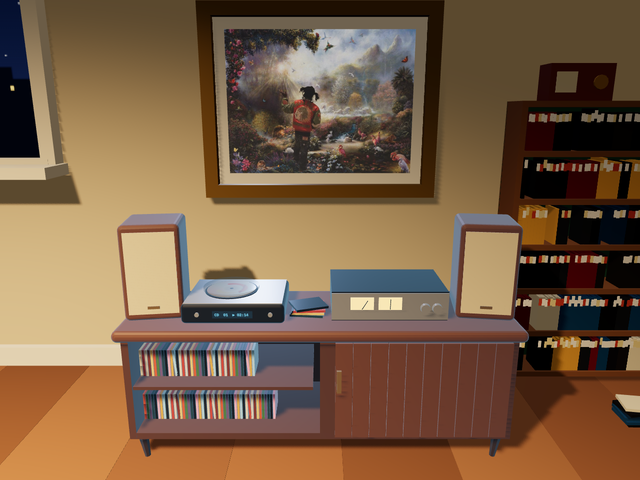
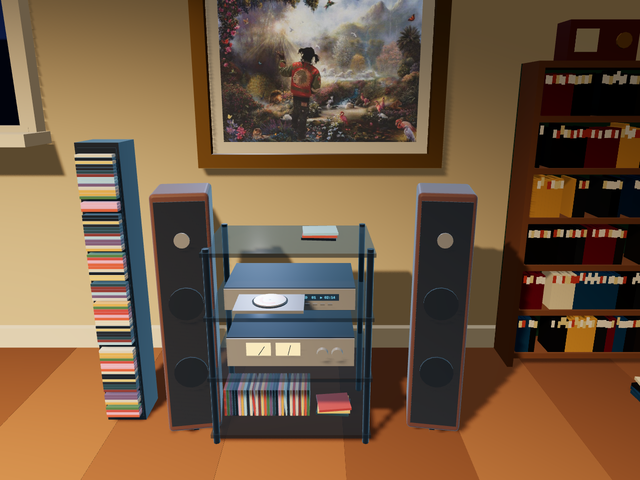
Hub : un vrai coin CD pour Music Discovery (rack en verre, lecteur à tiroir, tour à CD, colonnes), affiches Evil Dead et I Love Ugly entières à toutes les tailles, plus de texte « Touche Talya »
Claude-Session: https://claude.ai/code/session_019D9NeCzFApqhUD5yddUWtk

diff --git a/scene.js b/scene.js
@@ -12,10 +12,10 @@ import * as THREE from './vendor/three.min.js';   // three.js compacté (vendor/
    vue : [recul, hauteur de l'œil, hauteur du regard] */
 const PLACES = {
   ordi:       { pos: [-2.6, 0, -3.35], face: 0,            vue: [2.3, 1.55, 1.05] },
-  platine:    { pos: [1.9, 0, -3.5],   face: 0,            vue: [2.2, 1.5, .95] },
-  globe:      { pos: [-4.1, 0, -.7],   face: Math.PI / 2,  vue: [2.45, 1.62, 1.3] },
+  platine:    { pos: [1.9, 0, -3.5],   face: 0,            vue: [2.05, 1.38, .82] },
+  globe:      { pos: [-4.1, 0, -.7],   face: Math.PI / 2,  vue: [2.75, 1.64, 1.34] },
   talya:      { pos: [3.1, 0, 1.1],    face: -2.4,         vue: [2.4, 1.35, .35] },
-  quiz:       { pos: [4.5, 0, -1.6],   face: -Math.PI / 2, vue: [2.7, 1.55, 1.15] },
+  quiz:       { pos: [4.5, 0, -1.6],   face: -Math.PI / 2, vue: [3.0, 1.6, 1.24] },
   flechettes: { pos: [-4.92, 0, 1.9],  face: Math.PI / 2,  vue: [2.6, 1.6, 1.55] },
   carton:     { pos: [-1.6, 0, 2.3],   face: .5,           vue: [2.2, 1.45, .35] },
 };
@@ -119,8 +119,8 @@ export function demarrer({ toile, etapes, surEtape, reduit, decors = {}, surDeco
   }
   tableau('img/murs/chief-keef.jpg', 1.0, .749, 1.9, 1.54, -4.18, 0, { cadre: '#b08a3e', bord: .07, epais: .06, dore: true, marge: .06 });   // Chief Keef au jardin d'Éden, au-dessus de la chaîne CD
   tableau('img/murs/koi.jpg', .66, .66, -2.6, 2.06, -4.18, 0, { cadre: '#5a3820', bord: .05 });                                     // la carpe géante, au-dessus du bureau
-  tableau('img/murs/i-love-ugly.jpg', .8, .535, -4.99, 2.02, -.7, Math.PI / 2, { cadre: '#161514', bord: .045, lum: .55 });   // I Love Ugly (Chester Watson), au-dessus du globe
-  tableau('img/murs/evil-dead-2.jpg', .5, .775, 4.99, 1.86, -1.6, -Math.PI / 2, { cadre: '#b8282e', bord: .035, marge: .045, lum: .75 });   // Evil Dead 2, au-dessus du pupitre de quiz
+  tableau('img/murs/i-love-ugly.jpg', .8, .535, -4.99, 1.95, -.7, Math.PI / 2, { cadre: '#161514', bord: .045, lum: .55 });   // I Love Ugly (Chester Watson), au-dessus du globe
+  tableau('img/murs/evil-dead-2.jpg', .5, .775, 4.99, 1.76, -1.6, -Math.PI / 2, { cadre: '#b8282e', bord: .035, marge: .045, lum: .75 });   // Evil Dead 2, au-dessus du pupitre de quiz
 
   meubler(scene, { M, boite });
   tableau('img/murs/seta.jpg', .76, .76, 4.99, 2.2, 2.85, -Math.PI / 2, { cadre: '#b07a48', bord: .05 });   // Seta, au-dessus de la télé
@@ -792,53 +792,55 @@ const FORMES = {
 
   // Music Discovery : une chaîne CD de mélomane (lecteur à chargement par le dessus, ampli, enceintes), sur une enfilade en noyer
   platine(g, { M, boite }) {
-    const noyer = M('#6e4527', { roughness: .5, flatShading: false }), noyerF = M('#5a3820', { roughness: .6 }), laiton = M('#c9a25a', { metalness: .7, roughness: .3, flatShading: false });
-    const alu = M('#c9cbd0', { metalness: .6, roughness: .3, flatShading: false }), noir = M('#17161a', { roughness: .45 });
-    molle(g, 1.72, .05, .52, .02, noyer, 0, .6, 0);                                        // le plateau
-    boite(.83, .48, .46, noyerF, .415, .35, 0, g);                                       // le caisson (à droite, fermé par les lattes)
-    boite(.83, .48, .02, noyerF, -.415, .35, -.22, g); boite(.83, .03, .46, noyerF, -.415, .125, 0, g); boite(.03, .48, .46, noyerF, -.815, .35, 0, g);   // à gauche, la case ouverte
-    [[-.78, -.19], [.78, -.19], [-.78, .19], [.78, .19]].forEach(([x, z]) => { const p = cylindre(g, .024, .013, .12, 8, M('#3a2416'), x, .06, z); p.rotation.z = x < 0 ? .12 : -.12; });
-    for (let i = 0; i < 10; i++) boite(.072, .44, .02, noyer, .1 + i * .074, .35, .236, g);       // les portes à lattes
-    boite(.02, .1, .02, laiton, .08, .4, .25, g);
-    // la case ouverte : des CD rangés sur deux étages, tranches colorées, quelques boîtiers qui penchent
-    boite(.78, .015, .42, noyerF, -.42, .35, .01, g);
+    /* l'époque du CD, sans doute possible : un rack de hi-fi en verre fumé et montants noirs, un lecteur CD
+       à tiroir (ouvert, le disque dedans), l'ampli à vu-mètres, une tour à CD pleine et deux colonnes */
+    const noir = M('#17161a', { roughness: .45 }), montant = M('#222126', { metalness: .55, roughness: .35, flatShading: false });
+    const alu = M('#c9cbd0', { metalness: .6, roughness: .3, flatShading: false }), aluF = M('#a9acb2', { metalness: .6, roughness: .35, flatShading: false });
+    const verre = new THREE.MeshStandardMaterial({ color: '#1b1d22', transparent: true, opacity: .55, roughness: .08, metalness: .3, flatShading: false });
+    const noyer = M('#6e4527', { roughness: .5, flatShading: false }), toile = M('#26252a', { roughness: 1 });
     const tranches = ['#c8572f', '#2f4a5a', '#d9a23a', '#e6dcc2', '#7b3b2e', '#4f7a46', '#1d1c1f', '#9fd8ff', '#b8473a', '#e9c46a', '#6e5a8a', '#f0a6d8', '#2a2a30', '#d8d4c8'];
-    [.145, .36].forEach((y, rang) => { for (let i = 0; i < 48; i++) { if (rang && i > 40) break; const c = boite(.0105, .125, .142, M(tranches[(i * 5 + rang * 3) % tranches.length], { roughness: .35 }), -.79 + i * .0124, y + .0625, .06, g); if (i % 13 === 12) c.rotation.z = .08; } });
-    // le lecteur CD à chargement par le dessus : le couvercle fumé, le CD qui tourne dessous, l'écran bleu
-    molle(g, .44, .085, .34, .012, M('#1d1c20', { roughness: .4, flatShading: false }), -.37, .668, 0);
-    boite(.42, .004, .32, alu, -.37, .712, 0, g);
-    cylindre(g, .118, .118, .006, 40, noir, -.4, .715, -.01);                                 // le puits où on pose le CD
-    const disque = new THREE.Group(); disque.position.set(-.4, .72, -.01); disque.userData.vivant = true; g.add(disque);
-    const cd = new THREE.Mesh(new THREE.CylinderGeometry(.11, .11, .003, 48), new THREE.MeshStandardMaterial({ map: texteCD(), metalness: .35, roughness: .22, flatShading: false })); disque.add(cd);
-    const couvercle = new THREE.Mesh(new THREE.CylinderGeometry(.125, .125, .012, 40), new THREE.MeshStandardMaterial({ color: '#2a2d36', transparent: true, opacity: .32, roughness: .05, metalness: .2, flatShading: false }));
-    couvercle.position.set(-.4, .73, -.01); g.add(couvercle);
+    const RX = -.12;   // le rack, un peu à gauche du milieu
+    // le rack : quatre montants, quatre plateaux de verre fumé
+    [[-.31, -.2], [.31, -.2], [-.31, .2], [.31, .2]].forEach(([x, z]) => cylindre(g, .014, .014, .84, 8, montant, RX + x, .42, z));
+    [.04, .3, .56, .82].forEach(y => { const v = boite(.66, .016, .44, verre, RX, y, 0, g); v.castShadow = false; });
+    // en haut : le lecteur CD à tiroir, le tiroir sorti avec le disque dedans, l'écran bleu
+    boite(.52, .095, .32, noir, RX, .615, -.02, g); boite(.52, .088, .008, alu, RX, .615, .142, g);
+    boite(.26, .012, .17, aluF, RX - .07, .632, .225, g);                                     // le tiroir
+    cylindre(g, .068, .068, .004, 32, M('#2a2a30'), RX - .07, .64, .222);                      // son creux
+    const disque = new THREE.Group(); disque.position.set(RX - .07, .644, .222); disque.userData.vivant = true; g.add(disque);
+    const cd = new THREE.Mesh(new THREE.CylinderGeometry(.062, .062, .003, 48), new THREE.MeshStandardMaterial({ map: texteCD(), metalness: .35, roughness: .22, flatShading: false })); disque.add(cd);
     const affCD = toileTexte(256, 48, (x, w, h) => { x.fillStyle = '#071722'; x.fillRect(0, 0, w, h); x.fillStyle = '#7fe0ff'; x.font = '700 24px "IBM Plex Mono", monospace'; x.fillText('CD  01  ▶ 02:14', 14, 33); });
-    const lcdCD = new THREE.Mesh(new THREE.PlaneGeometry(.17, .032), new THREE.MeshBasicMaterial({ map: affCD, toneMapped: false })); lcdCD.position.set(-.37, .668, .172); g.add(lcdCD);
-    [-.52, -.21].forEach(x => { const b = cylindre(g, .01, .01, .01, 10, alu, x, .668, .172); b.rotation.x = Math.PI / 2; });
-    // entre le lecteur et l'ampli : une petite pile de boîtiers de CD, posés à plat, le dernier un peu de travers
-    ['#2f4a5a', '#e9c46a', '#b8473a', '#1d1c1f'].forEach((c, i) => {
-      const b = new THREE.Group(); b.position.set(-.05, .632 + i * .0106, .04); b.rotation.y = (i - 1.5) * .09 + (i === 3 ? .22 : 0); g.add(b);
-      boite(.142, .0102, .124, M(c, { roughness: .25 }), 0, 0, 0, b); boite(.008, .0104, .124, M('#141317', { roughness: .3 }), -.071, 0, 0, b);
-    });
-    // l'ampli : façade alu, deux vu-mètres ambrés qui s'allument, gros boutons
-    const ampli = new THREE.Group(); ampli.position.set(.3, .625, -.03); g.add(ampli);
-    boite(.5, .13, .32, noir, 0, .065, 0, ampli); boite(.5, .12, .01, alu, 0, .065, .162, ampli);
+    const lcdCD = new THREE.Mesh(new THREE.PlaneGeometry(.15, .028), new THREE.MeshBasicMaterial({ map: affCD, toneMapped: false })); lcdCD.position.set(RX + .12, .625, .147); g.add(lcdCD);
+    [RX + .07, RX + .1, RX + .13, RX + .16].forEach(x => boite(.018, .008, .004, aluF, x, .595, .148, g));   // les touches
+    // au milieu : l'ampli, façade alu, deux vu-mètres ambrés qui s'allument, gros boutons
+    const ampli = new THREE.Group(); ampli.position.set(RX, .31, -.02); g.add(ampli);
+    boite(.52, .13, .32, noir, 0, .074, 0, ampli); boite(.52, .122, .01, alu, 0, .074, .162, ampli);
     const vu = new THREE.MeshStandardMaterial({ color: '#ffd89a', emissive: '#ffb347', emissiveIntensity: .35, roughness: .5 });
-    const aiguilles = [-.12, .0].map(x => { boite(.1, .056, .006, vu, x, .08, .168, ampli); const a = boite(.002, .045, .002, noir, x, .06, .172, ampli); a.geometry.translate(0, .022, 0); a.position.y = .056; a.userData.garder = true; return a; });
+    const aiguilles = [-.13, -.01].map(x => { boite(.1, .056, .006, vu, x, .09, .168, ampli); const a = boite(.002, .045, .002, noir, x, .07, .172, ampli); a.geometry.translate(0, .022, 0); a.position.y = .066; a.userData.garder = true; return a; });
     vu.userData.anime = true;
-    [.15, .2].forEach(x => { const b = cylindre(ampli, .02, .022, .02, 16, alu, x, .06, .175); b.rotation.x = Math.PI / 2; });
-    // les enceintes : noyer et toile beige, sur le plateau aux deux bouts, un peu tournées vers la pièce
-    [-1, 1].forEach(c => {
-      const e = new THREE.Group(); e.position.set(c * .73, .625, 0); e.rotation.y = -c * .14; g.add(e);
-      molle(e, .25, .42, .26, .015, noyer, 0, .21, 0);
-      boite(.21, .36, .006, M('#d8c7a0', { roughness: 1 }), 0, .21, .131, e);
-      boite(.05, .012, .003, laiton, 0, .06, .136, e);
+    [.13, .19].forEach(x => { const b = cylindre(ampli, .022, .024, .02, 16, alu, x, .074, .175); b.rotation.x = Math.PI / 2; });
+    // en bas : des boîtiers de CD debout, tranches vers nous, et une pile à plat
+    for (let i = 0; i < 30; i++) { const c = boite(.0105, .125, .142, M(tranches[(i * 5) % tranches.length], { roughness: .35 }), RX - .29 + i * .0124, .114, .02, g); if (i % 11 === 10) c.rotation.z = .1; }
+    ['#2f4a5a', '#e9c46a', '#b8473a'].forEach((c, i) => { const b = boite(.142, .0102, .124, M(c, { roughness: .25 }), RX + .18, .058 + i * .0106, .03, g); b.rotation.y = (i - 1) * .12; });
+    // sur le dessus : une pile de boîtiers, le dernier ouvert sur son livret
+    ['#1d1c1f', '#c8572f', '#9fd8ff'].forEach((c, i) => { const b = boite(.142, .0102, .124, M(c, { roughness: .25 }), RX + .12, .834 + i * .0106, -.02, g); b.rotation.y = .08 * i - .1; });
+    // la tour à CD, à gauche : pleine du haut en bas, quelques trous
+    const TX = -.86;
+    boite(.17, 1.22, .17, noir, TX, .61, -.04, g); boite(.15, 1.18, .005, M('#0e0e10'), TX, .61, .046, g);
+    for (let i = 0; i < 92; i++) { if (i % 17 === 9 || i % 23 === 4) continue; boite(.142, .0105, .14, M(tranches[(i * 11 + (i >> 2) * 3) % tranches.length], { roughness: .35 }), TX, .045 + i * .0124, .015, g); }
+    // les colonnes, de chaque côté du rack : noyer, toile sombre, un tweeter et deux boomers
+    [0, 1].forEach(k => {
+      const e = new THREE.Group(); e.position.set(k ? .5 : -.55, 0, .02); e.rotation.y = k ? -.16 : .16; g.add(e);
+      molle(e, .22, 1.02, .26, .012, noyer, 0, .53, 0);
+      boite(.19, .96, .006, toile, 0, .53, .131, e);
+      [.86, .6, .3].forEach((y, n) => { const hp = cylindre(e, n ? .068 : .03, n ? .068 : .03, .012, 20, n ? M('#1b1b1f', { roughness: .6 }) : alu, 0, y, .136); hp.rotation.x = Math.PI / 2; });
+      boite(.022, .14, .2, noir, 0, .02, 0, e);   // le socle
     });
-    fusionnerDecor(g);   // le meuble, les CD, l'ampli, les enceintes : fixes ; le CD qui tourne et les aiguilles bougent
+    fusionnerDecor(g);   // le rack, les CD, l'ampli, les colonnes : fixes ; le CD et les aiguilles bougent
     let v = 0;
     return {
       anime(temps, eveil, secousse, dt) {
-        v += ((.6 + eveil * 9 + secousse * 20) - v) * Math.min(1, dt * 2);   // un CD tourne vite
+        v += ((.15 + eveil * 3 + secousse * 14) - v) * Math.min(1, dt * 2);   // le disque dans le tiroir tourne un peu quand on s'approche
         disque.rotation.y -= v * dt;
         vu.emissiveIntensity = .35 + eveil * 1.1;
         aiguilles.forEach((a, i) => { a.rotation.z = .6 - eveil * (.5 + Math.abs(Math.sin(temps * (5 + i) + i)) * .7); });

diff --git a/index.html b/index.html
@@ -328,9 +328,7 @@
         $('#fiche-num').textContent = `${String(k).padStart(2, '0')} / ${String(ETAPES.length - 1).padStart(2, '0')}`;
         $('#fiche-titre').textContent = e.titre;
         $('#fiche-legende').textContent = e.legende;
-        const astuce = $('#fiche-astuce');
-        astuce.hidden = e.forme !== 'talya';
-        astuce.textContent = matchMedia('(hover: none)').matches ? 'Touche Talya pour la caresser' : 'Clique sur Talya pour la caresser';
+        $('#fiche-astuce').hidden = true;   // Talya se caresse toujours, sans le dire
         const l = $('#fiche-lien');
         if (e.lien) { l.href = e.lien; l.textContent = 'Entrer'; l.classList.remove('ferme'); l.removeAttribute('aria-disabled'); }
         else { l.removeAttribute('href'); l.textContent = k === ETAPES.length - 1 ? 'Bientôt' : 'Pas encore ouvert'; l.classList.add('ferme'); l.setAttribute('aria-disabled', 'true'); }
@@ -397,7 +395,7 @@
       try {
         const essai = document.createElement('canvas');
         if (!(essai.getContext('webgl2') || essai.getContext('webgl'))) throw new Error('pas de webgl');
-        const { demarrer } = await import('./scene.js?v=20261104e');   // ?v= : force le téléphone à reprendre la dernière version
+        const { demarrer } = await import('./scene.js?v=20261108');   // ?v= : force le téléphone à reprendre la dernière version
         parcours = demarrer({ toile: $('#toile'), etapes: ETAPES, surEtape: afficher, reduit,
           depart: retourDe > 0 ? retourDe : 0, bloque: () => avantDebut, surBloque: appeler,
           surPret: () => { document.body.classList.add('piece-prete'); if (allerDesQuePret) { allerDesQuePret = false; parcours.aller(1); } },
